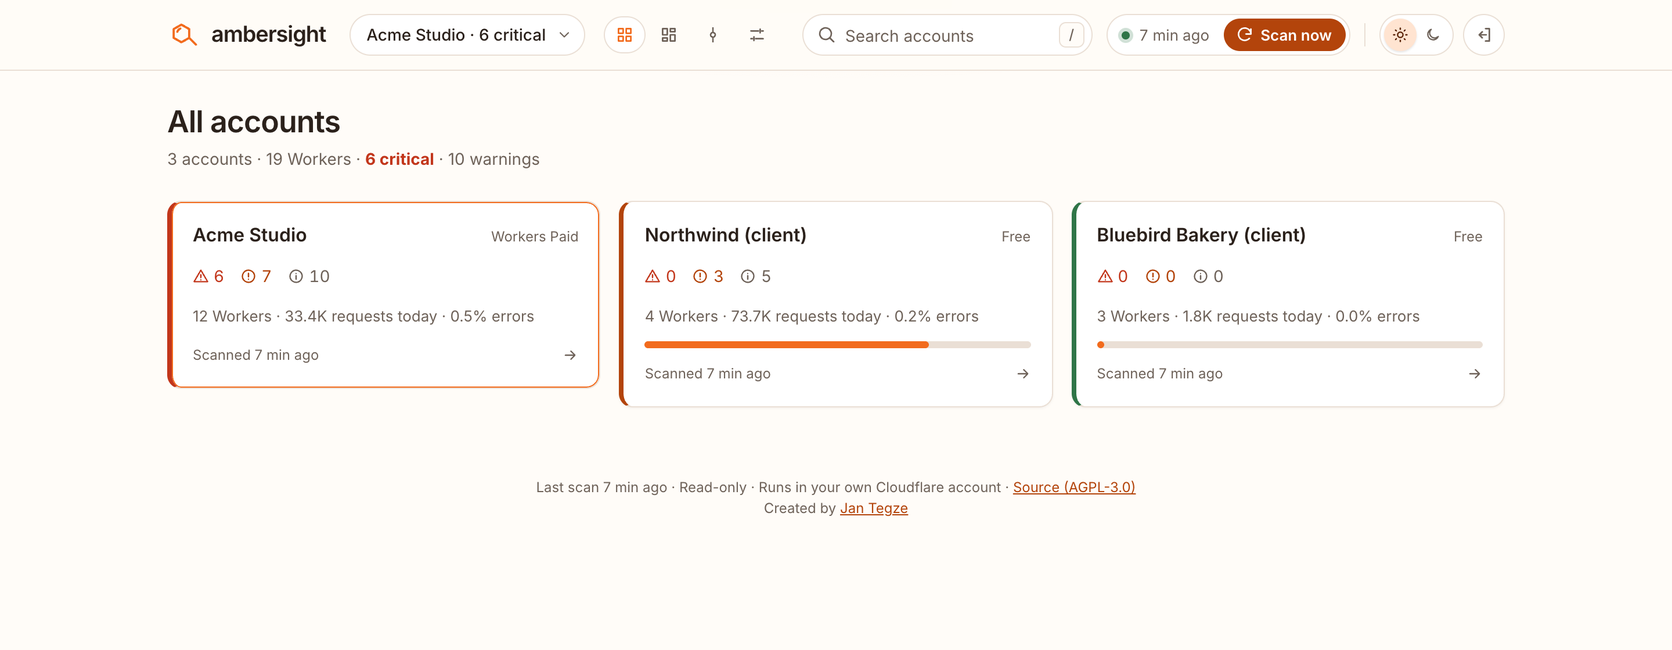
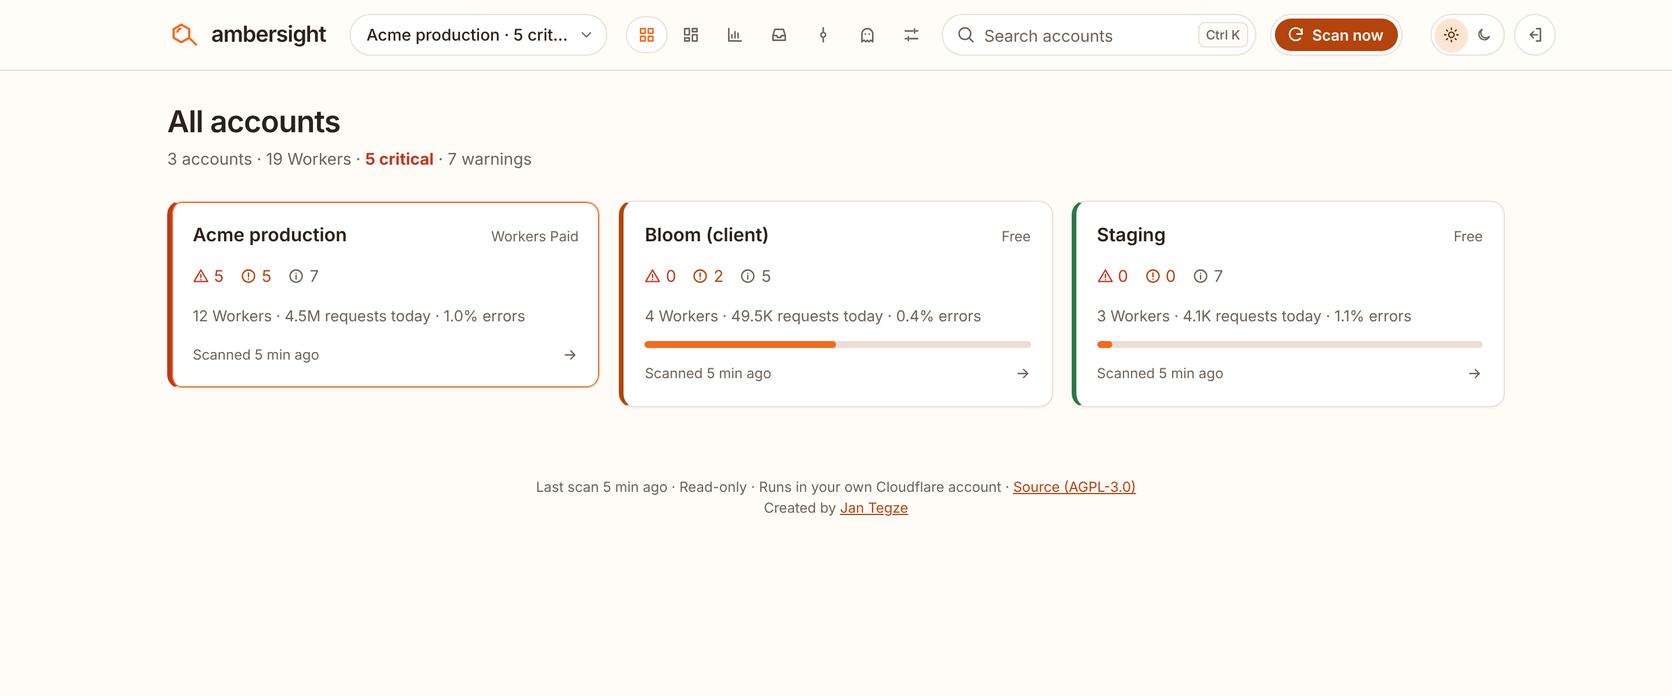
Release 1.1.2: new screenshots, README and docs
- Version 1.1.2 in package.json, the lockfile and the update check.
- New screenshots from a demo fleet run through the real scan: Worker
  page, Analytics (trends, cost, limits, reliability), Findings, plus
  refreshed overview, timeline, accounts, settings and phone views.
- README: what is new in 1.1.2, 81 checks, the new screenshot table.
- checks.md: monthly budget section, seasonal baselines; how-it-works:
  combined requests, daily rollups, cached views, new tables.
- Header: the go-to shortcut sits in the search box, and with several
  accounts the header wraps earlier, so it fits from 390 to 1440 px.

Claude-Session: https://claude.ai/code/session_01JA6Nb4Qq6PPM7PG7qQbzxy

diff --git a/web/src/App.svelte b/web/src/App.svelte
@@ -199,6 +199,7 @@
 
   // ---- Command palette (Ctrl+K / Cmd+K) and "g then a letter" shortcuts.
   let palette = $state(false);
+  const goKey = /Mac|iPhone|iPad/.test(navigator.platform || navigator.userAgent) ? '⌘K' : 'Ctrl K';
   let pendingG = 0;
   const GO: Record<string, string> = { o: '#/', a: '#/analytics', f: '#/findings', t: '#/timeline', r: '#/resources', s: '#/settings' };
   const commands = $derived.by((): Command[] => [
@@ -308,11 +309,12 @@
           {#if query}
             <button type="button" class="clear" aria-label="Clear search" onclick={() => { query = ''; searchEl?.focus(); }}><Icon name="close" size={14} /></button>
           {:else}
-            <kbd aria-hidden="true">/</kbd>
+            <button type="button" class="go" onclick={() => (palette = true)} title="Go to a Worker or page" aria-label="Go to a Worker or page ({goKey})">{goKey}</button>
           {/if}
         </div>
+      {:else}
+        <button type="button" class="icon-btn" onclick={() => (palette = true)} aria-label="Go to ({goKey})" title="Go to a Worker or page ({goKey})"><Icon name="command" size={16} /></button>
       {/if}
-      <button type="button" class="icon-btn" onclick={() => (palette = true)} aria-label="Go to (Ctrl+K)" title="Go to a Worker or page (Ctrl+K)"><Icon name="command" size={16} /></button>
 
       <div class="scan" class:busy={scanning}>
         <span class="scanned" title={data.lastScanAt ? `Last scan ${new Date(data.lastScanAt).toUTCString()}` : 'No scan yet'}>
@@ -455,12 +457,13 @@
   .search input::placeholder { color: var(--ink-muted); opacity: 1; }
   .search input::-webkit-search-cancel-button { display: none; }
   .search :global(svg) { flex: none; }
-  kbd {
-    display: grid; place-items: center; width: 22px; height: 22px; margin-left: 4px;
-    font: 500 12px/1 var(--font); color: var(--ink-muted);
+  .search:focus-within .go { opacity: 0; }
+  .go {
+    display: grid; place-items: center; min-width: 22px; height: 22px; min-height: 22px; margin-left: 4px; padding: 0 6px;
+    font: 500 11px/1 var(--font); color: var(--ink-muted); white-space: nowrap;
     border: 1px solid var(--line); border-radius: 6px; background: var(--paper);
   }
-  .search:focus-within kbd { opacity: 0; }
+  .go:hover { color: var(--ink); border-color: var(--ink-muted); }
   .clear {
     display: grid; place-items: center; width: 22px; min-height: 22px; height: 22px; margin-left: 4px; padding: 0;
     border: 0; border-radius: 50%; background: var(--line); color: var(--ink);
@@ -556,7 +559,11 @@
     .scanned { display: none; }
     .multi .acct-switch select { max-width: 150px; }
   }
-  @media (max-width: 900px) {
+  /* With the account switcher and eight pages, the last-scan time gives way first (it is in the footer too). */
+  @media (max-width: 1500px) {
+    .multi .scanned { display: none; }
+  }
+  @media (max-width: 1180px) {
     .multi { flex-wrap: wrap; }
     .multi .search { order: 3; width: 100%; margin: 0; }
     .multi .search-field { flex: 1; }
@@ -589,7 +596,7 @@
     .search { order: 3; width: 100%; margin: 0; }
     .search-field { flex: 1; }
     .search input, .search:focus-within input, .search.filled input { width: 100%; }
-    kbd { display: none; }
+    .go { display: none; }
     .banner { padding: 0 16px; }
   }
 </style>

diff --git a/web/src/pages/Worker.svelte b/web/src/pages/Worker.svelte
@@ -306,7 +306,7 @@
   .back:hover { color: var(--ink); }
   h1.mono { font-size: 24px; word-break: break-all; }
   .note { font-size: 13px; color: var(--ink-muted); padding: 8px 12px; border: 1px dashed var(--line); border-radius: 8px; }
-  .stats { display: grid; grid-template-columns: repeat(auto-fit, minmax(150px, 1fr)); }
+  .stats { display: grid; grid-template-columns: repeat(auto-fit, minmax(128px, 1fr)); }
   .stats > :global(*) { border-right: 1px solid var(--line); }
   .grid2 { display: grid; grid-template-columns: repeat(2, minmax(0, 1fr)); gap: 16px; }
   .panel { padding: 16px; display: grid; gap: 8px; align-content: start; min-width: 0; }

diff --git a/src/worker/version.ts b/src/worker/version.ts
@@ -1,6 +1,6 @@
 // SPDX-License-Identifier: AGPL-3.0-only
 /** Keep in sync with package.json. Shown in the UI and compared with the latest GitHub release. */
-export const VERSION = '0.1.1';
+export const VERSION = '1.1.2';
 export const REPO = 'jntegz/ambersight';
 
 /** True if `latest` (e.g. "v0.2.0") is a newer semver than `current`. */

diff --git a/README.md b/README.md
@@ -17,7 +17,7 @@
 </p>
 
 <picture>
-  <img src="docs/screenshots/overview.png" alt="The Ambersight overview for one of several accounts: 9 of 12 Workers need attention, requests and errors today, storage limits and the estimated bill for the month">
+  <img src="docs/screenshots/overview.png" alt="The Ambersight overview for one of several accounts: 6 of 12 Workers need attention, requests and errors today, storage limits and the estimated bill against a monthly budget">
 </picture>
 
 ---
@@ -26,12 +26,19 @@ You have a dozen Workers, maybe fifty. One is quietly burning through the free p
 
 The Cloudflare dashboard shows you each Worker on its own. **Ambersight shows you the fleet** and tells you which Workers need attention, and why, in plain sentences.
 
-It runs as **one Worker in your own Cloudflare account**. Every hour it reads your Workers' settings and metrics with a read-only API token, runs 80 checks, and gives you a ranked list of what to fix. One install can watch every account the token can see. Alerts go to e-mail, Slack, Discord, Telegram or any webhook.
+It runs as **one Worker in your own Cloudflare account**. Every hour it reads your Workers' settings and metrics with a read-only API token, runs 81 checks, and gives you a ranked list of what to fix. One install can watch every account the token can see. Alerts go to e-mail, Slack, Discord, Telegram or any webhook.
 
 - **On the Free plan**, the risk is an outage. Past 100,000 requests in a day, every Worker in the account answers with Error 1027 until midnight UTC, and the same goes for 1,000 KV writes, 5 million D1 rows read and the other daily limits. Ambersight warns you at 70% and again at 90% of each one, with the time you will hit it at today's pace.
 - **On Workers Paid**, the risk is the bill. There is no hard spending cap, so a loop, a retry storm or a crawler is billed for every hour it runs. Ambersight compares each Worker's last hour with its usual hour and alerts you at 5x, for requests, CPU time, subrequests and D1, KV, R2, Queues and Durable Object operations. It also catches Durable Object or Queue work that runs while nobody uses the app, and shows the estimated bill in dollars.
 
-> **New since 0.1.1**
+> **New in 1.1.2**
+> - **A page for every Worker**: requests, errors, CPU and wall time, limit hits and cron runs over 24 hours to 12 months, with every deploy marked and its before and after.
+> - **Analytics**: trends against the period before, the bill per month, daily limits and storage growth with the date each cap is reached, time to resolve and which checks are only noise. Compare up to four Workers.
+> - **13 months of history**, kept as daily rollups. Every finding keeps its history: opened, alerted, acknowledged, resolved. A **Findings** inbox lists them by status, and acknowledge or snooze can be undone.
+> - **Smarter alerts**: a nightly batch or a daily peak is judged against its own hour, and a spike no deploy explains names the change made just before it.
+> - **Monthly budget** on Workers Paid, alerted within the hour, not a day later.
+> - **Read-only API tokens** for Grafana or scripts ([docs/api.md](docs/api.md)), CSV export on every chart and table, Ctrl+K to jump to any Worker, and an installable app that opens offline.
+> - **Fewer API calls**: an hourly scan makes at most 3 GraphQL requests instead of up to 8, and pages are served from one cached row.
 > - **Explain in plain words** on every finding: what it means, why it matters, and numbered steps with where to click, for people new to Cloudflare.
 > - **Clean up leftovers**: unused KV, D1, R2, queues and idle Workers show the exact `wrangler` command to remove them (a backup first for D1). Ambersight still never deletes anything.
 > - **Export .md**: save **Needs attention** or **Housekeeping** as a Markdown checklist, with every cleanup command in one block.
@@ -93,19 +100,27 @@ Also included: several accounts in one install with an "All accounts" view, grou
 
 <table>
   <tr>
-    <td width="50%"><img src="docs/screenshots/accounts.png" alt="All accounts: three Cloudflare accounts side by side, each with its critical, warning and info counts, Workers, requests today, error rate and free request budget"><br><sub><b>All accounts.</b> One install watches every account the token can see. Open one to see its fleet.</sub></td>
-    <td width="50%"><img src="docs/screenshots/limits.png" alt="Free plan limits: D1 rows read at 4.2M of 5M and a D1 database at 431 MB of 500 MB in orange, KV reads, KV writes and D1 rows written in green"><br><sub><b>Free plan limits.</b> Every daily limit and storage cap, not just requests. Orange from 70%.</sub></td>
+    <td width="50%"><img src="docs/screenshots/worker.png" alt="The page of one Worker, auth-gateway: requests, error rate, CPU per request and wall time over 7 days, with the deploy 14 hours ago marked where the error rate jumped to 6%"><br><sub><b>Every Worker on its own page.</b> Traffic, errors, CPU and wall time over 24 hours to 12 months, with deploys marked.</sub></td>
+    <td width="50%"><img src="docs/screenshots/analytics.png" alt="Analytics over 30 days: requests, errors, error rate, CPU per request and limit hits with their change against the 30 days before, and the account's requests per day"><br><sub><b>Analytics.</b> Trends against the period before, the Workers growing fastest, every Worker in one sortable table.</sub></td>
   </tr>
   <tr>
-    <td width="50%"><img src="docs/screenshots/cost.png" alt="Estimated bill: $5.42 so far this month, $5.59 at month end at this pace, split by product, with the costliest Workers listed"><br><sub><b>Estimated bill.</b> On Workers Paid: month to date, the month-end forecast and the costliest Workers.</sub></td>
-    <td width="50%"><img src="docs/screenshots/timeline.png" alt="Deploy timeline: deploys, a failed Pages deploy and audit log entries, with a deploy of auth-gateway flagged because the error rate rose right after it"><br><sub><b>Deploy timeline.</b> Deploys, Pages builds and audit log changes. The deploy followed by a new problem is flagged.</sub></td>
+    <td width="50%"><img src="docs/screenshots/cost.png" alt="Analytics, Cost: the estimated bill per month, usage at list price per day, and Workers by cost per month and per million requests"><br><sub><b>Cost.</b> On Workers Paid: the bill per month, spend per day and the Workers behind it.</sub></td>
+    <td width="50%"><img src="docs/screenshots/limits.png" alt="Analytics, Limits and storage for a Free plan account: each daily limit per day against its free limit, with its peak and usual busiest hour, and a D1 database reaching its 500 MB cap around a date"><br><sub><b>Limits and storage.</b> How close each daily limit runs, and the date each database reaches its cap.</sub></td>
   </tr>
   <tr>
-    <td width="50%"><img src="docs/screenshots/settings.png" alt="Settings › Accounts: the accounts to watch, and a label, client digest address and plan for each one"><br><sub><b>Settings.</b> Accounts, checks, thresholds, schedules and alert routes, stored in D1. Export and import as JSON.</sub></td>
+    <td width="50%"><img src="docs/screenshots/reliability.png" alt="Analytics, Reliability: findings opened and resolved per day, median time to resolve by severity, deploys per day, and alert quality per check with one check flagged as mostly silenced"><br><sub><b>Reliability.</b> Time to resolve, and which checks are only noise to you.</sub></td>
+    <td width="50%"><img src="docs/screenshots/timeline.png" alt="Deploy timeline: deploys, a Pages deploy and audit log entries, with a deploy of auth-gateway flagged because the error rate rose right after it"><br><sub><b>Deploy timeline.</b> Deploys, Pages builds and audit log changes. The deploy followed by a new problem is flagged.</sub></td>
+  </tr>
+  <tr>
+    <td width="50%"><img src="docs/screenshots/findings.png" alt="The Findings inbox: open findings with acknowledge, snooze and history, and tabs for acknowledged, snoozed and resolved findings"><br><sub><b>Findings.</b> Open, acknowledged, snoozed and resolved, each with its history.</sub></td>
+    <td width="50%"><img src="docs/screenshots/accounts.png" alt="All accounts: three Cloudflare accounts side by side, each with its critical, warning and info counts, Workers, requests today, error rate and free request budget"><br><sub><b>All accounts.</b> One install watches every account the token can see.</sub></td>
+  </tr>
+  <tr>
+    <td width="50%"><img src="docs/screenshots/settings.png" alt="Settings: scan frequency, time zone and history, and per account a label, client digest, plan and monthly budget"><br><sub><b>Settings.</b> Accounts, budgets, checks, thresholds and alert routes, stored in D1. Export and import as JSON.</sub></td>
     <td width="50%"><img src="docs/screenshots/overview-dark.png" alt="The overview in dark mode"><br><sub><b>Dark mode.</b> Follows your system, or pick one.</sub></td>
   </tr>
   <tr>
-    <td colspan="2" align="center"><img src="docs/screenshots/mobile.png" width="240" alt="The overview on a phone: a client account at 74% of its free requests, on track to reach 78% by midnight"><br><sub><b>On your phone.</b> Check the fleet from anywhere.</sub></td>
+    <td colspan="2" align="center"><img src="docs/screenshots/mobile.png" width="240" alt="The overview on a phone: a client account with a D1 database at 86% of its limit and half of its free requests used"><br><sub><b>On your phone.</b> Install it as an app; it opens offline with the last data.</sub></td>
   </tr>
 </table>
 
@@ -114,7 +129,7 @@ Also included: several accounts in one install with an "All accounts" view, grou
 ## Why you can trust it with your account
 
 - **Read-only, by design.** It only sends `GET` requests and GraphQL queries to the Cloudflare API. The setup wizard checks your token and refuses to continue if it finds a single write permission.
-- **Your account, your data.** It runs in your Cloudflare account and stores everything in your own D1 database. Nothing is sent to us. There is no telemetry and no analytics.
+- **Your account, your data.** It runs in your Cloudflare account and stores everything in your own D1 database. Nothing is sent to us. There is no telemetry and no tracking.
 - **No code in your Workers.** No SDK, no tail consumer, no redeploy. It reads what Cloudflare already records.
 - **Free to run.** With 30 Workers it uses well under 1% of the free plan's daily requests and 1 of your 5 Cron Triggers. Its own logs are off.
 - **Open source.** AGPL-3.0. Read every line before you deploy it.
@@ -383,7 +398,7 @@ No. It is an independent open-source project built on Cloudflare's public APIs. 
 
 ## Documentation
 
-- [Checks](docs/checks.md): all 80 checks, with thresholds, IDs and fixes
+- [Checks](docs/checks.md): all 81 checks, with thresholds, IDs and fixes
 - [How it works](docs/how-it-works.md): what one scan does, what it stores and how it stays inside the free plan
 - [Alerts](docs/alerts.md): channels, defaults, the digest and message formats
 - [Configuration](docs/configuration.md): `wrangler.jsonc`, secrets and every `config.json` field

diff --git a/docs/how-it-works.md b/docs/how-it-works.md
@@ -17,22 +17,28 @@ Each cron run scans one account: the one that is most overdue. A scan that fails
 ## What one scan does
 
 1. **Lists your Workers**, with their handlers, `workers.dev` and preview settings, and observability settings. A Worker that appeared or disappeared since the last scan is recorded for the digest.
-2. **Reads hourly metrics** from the GraphQL Analytics API: requests, errors, CPU time, subrequests and invocations that hit a limit. It fetches from the last stored hour (to complete it) onwards, at most 48 hours back.
+2. **Reads hourly metrics** from the GraphQL Analytics API: requests, errors, CPU time (total, median and p99), wall time (median and p99), subrequests and invocations that hit a limit, by limit. The totals and the limit outcomes come in one request. It fetches from the last stored hour (to complete it) onwards, at most 48 hours back.
 3. **Reads cron runs** for Workers with a `scheduled()` handler, for the last 25 hours. If the dataset is not available on your account, Ambersight tries again once a day.
-4. **Reads storage operations** for D1, KV, R2, Queues and Durable Objects, but only for the kinds your account actually has. The same queries carry the free-limit numbers: D1 rows read and written, and KV operations by type. Workflow steps and Workers AI neurons are read only when a Worker binds them.
+4. **Reads storage operations** for D1, KV, R2, Queues and Durable Objects, but only for the kinds your account actually has, all kinds in one request. The same query carries the free-limit numbers: D1 rows read and written, and KV operations by type, which are also kept per database and namespace. Workflow steps and Workers AI neurons are read only when a Worker binds them.
 5. **Refreshes the inventory** once a day, at 03:00 UTC by default: custom domains, the zone list, Pages projects, the lists of KV namespaces, D1 databases, R2 buckets and queues, Access applications if that check is on, storage sizes, the most expensive D1 queries, the plan, the API token's expiry date, and the update check.
 6. **Reads Cloudflare's own notifications and the audit log** every 6 hours, each since its last read.
 7. **Works through the zones**: routes, certificates and DNS records, per zone, the most overdue first, with a share of the scan's budget. Each zone is read at least once a day.
 8. **Fetches per-Worker detail**: bindings and compatibility settings, deployments and cron schedules. Each Worker's detail is refreshed every 6 hours, a few Workers per scan. A binding that disappeared since the last read is noted for the drift check.
-9. **Writes everything to D1** in one batch.
+9. **Writes everything to D1** in one batch, and folds each complete UTC day into the daily tables (a few days per scan at most, two hours after midnight so late data has arrived).
 10. **Runs the checks** on the stored history. The checks are pure functions, data in and findings out, so they cost almost no CPU. See [checks.md](checks.md).
-11. **Sends alerts and the digest** if any are due, then records what the scan itself cost.
+11. **Sends alerts and the digest** if any are due, then records what the scan itself cost, and a row in the scan log.
+
+When an account rejects a combined GraphQL request, Ambersight reads its datasets one by one again and retries the combination a day later. The same goes for the median and wall-time fields.
+
+## What a page view costs
+
+Nothing on the Cloudflare side: every page reads Ambersight's own D1 database. The overview, Analytics, Worker pages, Timeline and Resources are built once after each change (a scan, an acknowledge or snooze, a settings save) and then served from one cached row with an ETag. A browser that already has the current version gets `304 Not Modified`. Charts longer than 7 days read the daily tables, so a 12-month chart of 200 Workers reads a few thousand rows, not millions.
 
 ## Staying inside the free plan
 
 A Worker on the Free plan gets 50 subrequests and 10 ms of CPU per invocation, and the account gets 5 Cron Triggers. Ambersight is built around those limits:
 
-- A scan spends at most **42 subrequests** on the Cloudflare API on Free (900 on Paid), which leaves room for alerts and the update check. A typical hourly scan uses fewer than 10; the daily inventory run uses more.
+- A scan spends at most **42 subrequests** on the Cloudflare API on Free (900 on Paid), which leaves room for alerts and the update check. A typical hourly scan makes at most 3 GraphQL requests plus the Workers lists; the daily inventory run uses more.
 - D1 counts a `db.batch()` as one query against its 50-per-invocation limit, and every write goes into one batch. A scan makes about 10 D1 calls.
 - D1 also bills every row a query scans and every row (and index entry) a write touches: 5 million reads and 100,000 writes a day on Free. Writes skip rows that did not change, the no-traffic check reads each Worker's last active hour instead of 30 days of metrics, and there are no indexes that no query uses. With 200 Workers and 30 days of history, an hourly scan reads about 34,000 rows and writes about 650: roughly 0.8 million reads and 16,000 writes a day.
 - The per-Worker detail in step 8 and the zones in step 7 are fetched on **rotating cursors**: whatever was read longest ago goes first, and the scan stops when its budget runs out.
@@ -53,7 +59,8 @@ Everything lives in your own D1 database:
 | Table | What is in it |
 | --- | --- |
 | `workers` | Each Worker's settings, bindings, tags, when its detail was last read, and the last hour it had a request |
-| `metrics_hourly` | Requests, errors, CPU and subrequests per Worker per hour |
+| `metrics_hourly` | Requests, errors, CPU, wall time, subrequests and limit hits per Worker per hour |
+| `metrics_daily`, `resource_daily`, `quota_daily`, `cron_daily` | The same, one row per UTC day, kept 400 days for Analytics and the Worker pages |
 | `schedules` | Each Worker's cron expressions |
 | `cron_runs` | Scheduled runs and failures per hour |
 | `resources` | KV namespaces, D1 databases, R2 buckets, queues, routes, custom domains and Access applications |
@@ -66,6 +73,11 @@ Everything lives in your own D1 database:
 | `accounts`, `account_state` | The accounts this install watches, and each one's scan state |
 | `quota_hourly` | Account-wide usage per hour for the free limits and the cost estimate (kept at least 35 days) |
 | `storage_sizes` | Latest size of each D1 database, KV namespace and R2 bucket, and the Durable Object total |
+| `storage_daily` | The same sizes per day, kept 400 days, for growth and the date a cap is reached |
+| `finding_events` | Every change of every finding: opened, alerted, acknowledged, snoozed, restored, resolved; kept 400 days |
+| `scan_runs` | One row per scan: duration, API calls, D1 rows, warnings, findings opened and resolved; kept 90 days |
+| `view_cache` | Dashboard views built after the last change, served until the next |
+| `api_tokens` | Read-only API tokens, stored only as SHA-256 digests |
 | `zones` | Each zone and when its routes, certificates and DNS records were last read |
 | `cf_alerts` | Notifications Cloudflare sent to the account |
 | `audit_events` | The account audit log, without "view" entries |

diff --git a/docs/checks.md b/docs/checks.md
@@ -1,12 +1,13 @@
 # Checks
 
-Ambersight runs 80 checks. Each one below lists the ID you see in the dashboard and in `config.json`, how severe it is, exactly when it fires, and what to do about it. The numbers are the defaults. Most of them can be changed globally, per group or per Worker (see [configuration.md](configuration.md)).
+Ambersight runs 81 checks. Each one below lists the ID you see in the dashboard and in `config.json`, how severe it is, exactly when it fires, and what to do about it. The numbers are the defaults. Most of them can be changed globally, per group or per Worker (see [configuration.md](configuration.md)).
 
 Every finding in the dashboard carries the evidence behind it, a suggested fix and a link to the matching Cloudflare docs page. When the problem goes away, the finding resolves on its own at the next scan.
 
 **Severity** decides where a finding goes. By default, critical findings are e-mailed right away, and everything else waits for the digest. See [alerts.md](alerts.md).
 
 - [Free plan budget](#free-plan-budget)
+- [Monthly budget (Workers Paid)](#monthly-budget-workers-paid)
 - [Free plan daily limits](#free-plan-daily-limits)
 - [Storage caps](#storage-caps)
 - [Runaway usage](#runaway-usage)
@@ -37,6 +38,14 @@ On the Workers Free plan, an account gets 100,000 requests per UTC day across al
 | `budget:free-daily-requests` | Warning at 70%, critical at 90% | The account has used 70% of today's requests. The finding projects the time you hit the limit at today's pace, or says you should stay under it. | Find the Worker driving the traffic in the overview. If the traffic is real, move to Workers Paid. |
 
 Threshold settings: `budgetWarn` (0.7), `budgetCritical` (0.9).
+
+## Monthly budget (Workers Paid)
+
+Workers Paid has no hard spending cap. Set a monthly budget per account in **Settings › Accounts** and Ambersight compares the estimated bill with it after every scan. Cloudflare's own budget alerts arrive a day late.
+
+| Check | Severity | Fires when | What to do |
+| --- | --- | --- | --- |
+| `budget:monthly-budget` | Warning at 80% of the budget, or when the month-end forecast passes it (after 3 days of usage); critical past it | Workers Paid, with a monthly budget set for the account in **Settings › Accounts**. The estimate uses list prices and comes within the hour; Cloudflare's own budget alerts arrive a day late. | Open **Analytics › Cost** to see which Workers and products drive the spend, and look for runaway findings. |
 
 ## Free plan daily limits
 
@@ -71,7 +80,7 @@ Read once a day with the inventory: the size of each D1 database, KV namespace a
 
 ## Runaway usage
 
-These compare a Worker's **last full hour** with its **median hour over the past 7 days**. A Worker needs 72 hours of history before they apply, so a new install stays quiet for its first three days. Each one also has a floor, so a Worker that goes from 3 requests to 30 does not raise an alarm.
+These compare a Worker's **last full hour** with its **median hour over the past 7 days**, or with the median of the **same hour of day** over those days when that is higher, so a nightly batch or a daily peak is judged against its own hour. A spike that no deploy explains names the binding removal or audit log change in the 6 hours before it. A Worker needs 72 hours of history before they apply, so a new install stays quiet for its first three days. Each one also has a floor, so a Worker that goes from 3 requests to 30 does not raise an alarm.
 
 Workers Paid has no hard spending cap. A loop, a retry storm or a crawler is billed for every hour it runs, which makes these the checks that save money.
 

diff --git a/CHANGELOG.md b/CHANGELOG.md
@@ -2,7 +2,9 @@
 
 All notable changes to Ambersight. Each version here has a matching [GitHub release](https://github.com/jntegz/ambersight/releases), which is what the update notice in the dashboard reads.
 
-## Unreleased
+## 1.1.2 (2026-11-12)
+
+The biggest release yet: 13 months of history, a page per Worker, an Analytics page, budgets and a read-only API, built from the data each scan already reads. An hourly scan makes fewer Cloudflare API calls than before. Upgrading runs migrations 0011 to 0013; `npm run deploy` applies them.
 
 - **Fewer false runaway alerts.** The "5x usual" checks compare an hour with the same hour of day over the last week when that is higher than the plain median, so a nightly batch or a daily peak no longer raises an alert. No check becomes more sensitive.
 - **What changed just before.** A traffic, CPU or storage spike, or an error rise, that no deploy explains now names the binding that disappeared or the audit log change in the 6 hours before it.
